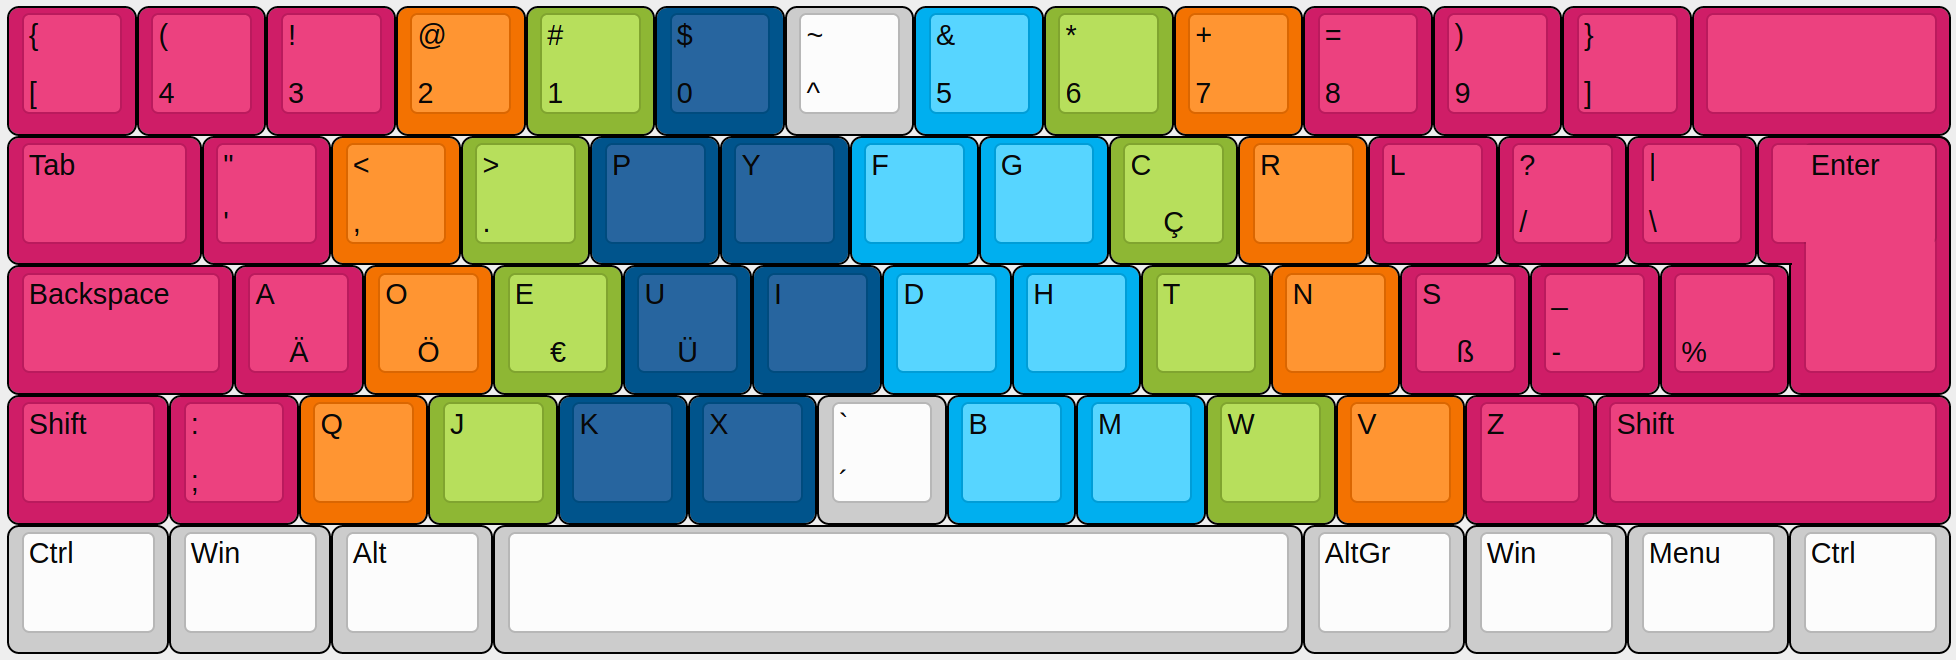
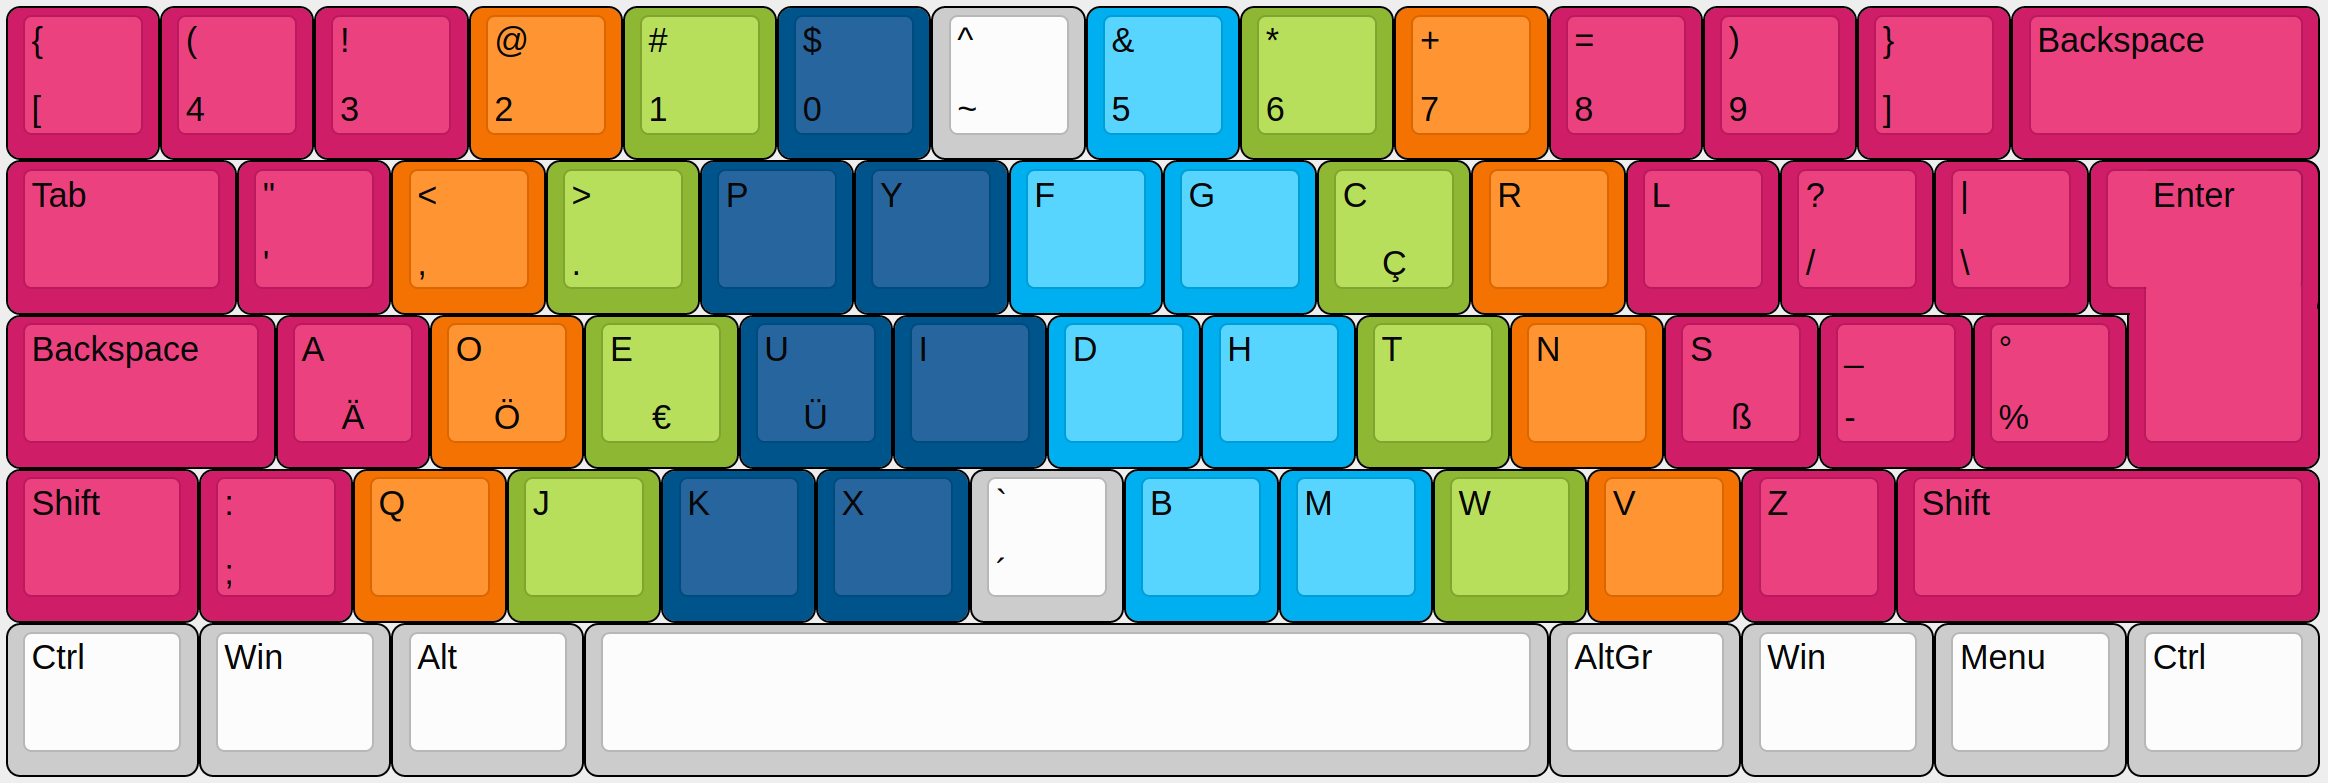
Use xkb instead of xmodmap and update readme

diff --git a/README.md b/README.md
@@ -1,6 +1,64 @@
+
 # Dvorax
-Somewhat symmetrical keyboard layout based on Dvorak, with German character support
+
+Somewhat symmetrical ISO 105 keyboard layout based on Dvorak, with German and French character support
 
 ![Layout](https://github.com/xdlg/Dvorax/blob/master/layout.png)
 
-[Keyboard Layout Editor](http://www.keyboard-layout-editor.com/##@@_c=%23cf1d67%3B&=%7B%0A%5B&=(%0A4&=!%0A3&_c=%23f37201%3B&=%2F@%0A2&_c=%238eb734%3B&=%23%0A1&_c=%2300548c%3B&=$%0A0&_c=%23cccccc%3B&=~%0A%5E&_c=%2300afef%3B&=%2F&%0A5&_c=%238eb734%3B&=*%0A6&_c=%23f37201%3B&=+%0A7&_c=%23cf1d67%3B&=%2F=%0A8&=)%0A9&=%7D%0A%5D&_a:7&w:2%3B&=%3B&@_a:4&w:1.5%3B&=Tab&=%22%0A'&_c=%23f37201%3B&=%3C%0A,&_c=%238eb734%3B&=%3E%0A.&_c=%2300548c%3B&=P&=Y&_c=%2300afef%3B&=F&=G&_c=%238eb734%3B&=C%0A%0A%0A%0A%0A%0A%0A%0A%0A%0A%C3%87&_c=%23f37201%3B&=R&_c=%23cf1d67%3B&=L&=%3F%0A%2F%2F&=%7C%0A%5C&_x:0.25&w:1.25&h:2&w2:1.5&h2:1&x2:-0.25%3B&=Enter%3B&@_w:1.75%3B&=Backspace&=A%0A%0A%0A%0A%0A%0A%0A%0A%0A%0A%C3%84&_c=%23f37201%3B&=O%0A%0A%0A%0A%0A%0A%0A%0A%0A%0A%C3%96&_c=%238eb734%3B&=E%0A%0A%0A%0A%0A%0A%0A%0A%0A%0A%E2%82%AC&_c=%2300548c%3B&=U%0A%0A%0A%0A%0A%0A%0A%0A%0A%0A%C3%9C&=I&_c=%2300afef%3B&=D&=H&_c=%238eb734%3B&=T&_c=%23f37201%3B&=N&_c=%23cf1d67%3B&=S%0A%0A%0A%0A%0A%0A%0A%0A%0A%0A%C3%9F&=%2F_%0A-&=%0A%25%3B&@_w:1.25%3B&=Shift&=%2F:%0A%2F%3B&_c=%23f37201%3B&=Q&_c=%238eb734%3B&=J&_c=%2300548c%3B&=K&=X&_c=%23cccccc%3B&=%60%0A%C2%B4&_c=%2300afef%3B&=B&=M&_c=%238eb734%3B&=W&_c=%23f37201%3B&=V&_c=%23cf1d67%3B&=Z&_w:2.75%3B&=Shift%3B&@_c=%23cccccc&w:1.25%3B&=Ctrl&_w:1.25%3B&=Win&_w:1.25%3B&=Alt&_a:7&w:6.25%3B&=&_a:4&w:1.25%3B&=AltGr&_w:1.25%3B&=Win&_w:1.25%3B&=Menu&_w:1.25%3B&=Ctrl)
+[Keyboard Layout Editor](http://www.keyboard-layout-editor.com/##@@_c=%23cf1d67%3B&=%7B%0A%5B&=(%0A4&=!%0A3&_c=%23f37201%3B&=%2F@%0A2&_c=%238eb734%3B&=%23%0A1&_c=%2300548c%3B&=$%0A0&_c=%23cccccc%3B&=%5E%0A~&_c=%2300afef%3B&=%2F&%0A5&_c=%238eb734%3B&=*%0A6&_c=%23f37201%3B&=+%0A7&_c=%23cf1d67%3B&=%2F=%0A8&=)%0A9&=%7D%0A%5D&_w:2%3B&=Backspace%3B&@_w:1.5%3B&=Tab&=%22%0A'&_c=%23f37201%3B&=%3C%0A,&_c=%238eb734%3B&=%3E%0A.&_c=%2300548c%3B&=P&=Y&_c=%2300afef%3B&=F&=G&_c=%238eb734%3B&=C%0A%0A%0A%0A%0A%0A%0A%0A%0A%0A%C3%87&_c=%23f37201%3B&=R&_c=%23cf1d67%3B&=L&=%3F%0A%2F%2F&=%7C%0A%5C&_x:0.25&w:1.25&h:2&w2:1.5&h2:1&x2:-0.25%3B&=Enter%3B&@_w:1.75%3B&=Backspace&=A%0A%0A%0A%0A%0A%0A%0A%0A%0A%0A%C3%84&_c=%23f37201%3B&=O%0A%0A%0A%0A%0A%0A%0A%0A%0A%0A%C3%96&_c=%238eb734%3B&=E%0A%0A%0A%0A%0A%0A%0A%0A%0A%0A%E2%82%AC&_c=%2300548c%3B&=U%0A%0A%0A%0A%0A%0A%0A%0A%0A%0A%C3%9C&=I&_c=%2300afef%3B&=D&=H&_c=%238eb734%3B&=T&_c=%23f37201%3B&=N&_c=%23cf1d67%3B&=S%0A%0A%0A%0A%0A%0A%0A%0A%0A%0A%C3%9F&=%2F_%0A-&=%C2%B0%0A%25%3B&@_w:1.25%3B&=Shift&=%2F:%0A%2F%3B&_c=%23f37201%3B&=Q&_c=%238eb734%3B&=J&_c=%2300548c%3B&=K&=X&_c=%23cccccc%3B&=%60%0A%C2%B4&_c=%2300afef%3B&=B&=M&_c=%238eb734%3B&=W&_c=%23f37201%3B&=V&_c=%23cf1d67%3B&=Z&_w:2.75%3B&=Shift%3B&@_c=%23cccccc&w:1.25%3B&=Ctrl&_w:1.25%3B&=Win&_w:1.25%3B&=Alt&_a:7&w:6.25%3B&=&_a:4&w:1.25%3B&=AltGr&_w:1.25%3B&=Win&_w:1.25%3B&=Menu&_w:1.25%3B&=Ctrl)
+
+## Background
+
+Strict touch typing on a standard keyboard (i.e. row-staggered) makes absolutely no sense for the left hand. Look at the standard areas of responsibility for each finger:
+
+![Touch typing](https://upload.wikimedia.org/wikipedia/commons/thumb/2/29/Touch_typing.svg/1200px-Touch_typing.svg.png)The right hand is fine, as the top-left to bottom-right key alignment (for example 7, U, J, M) matches the natural movement of the fingers. The hand can be kept in alignment with the forearm, and the wrist at a neutral angle.
+
+The left hand is *not* fine, as the key alignment runs counter to the finger movement. You either have to bend your wrist inward or make some finger contortions, especially for the bottom row. For example, reaching down from A to Z with your pinky while keeping a neutral wrist angle is an extremely awkward movement. I believe that most people choose to bend their wrists inwards, which sounds and feels like a sure way to get RSI.
+
+The culprit is row staggering, inherited from typewriters. Keyboards like the [X-Bows](https://x-bows.com/) or the [Ergodox](https://ergodox-ez.com/) address that problem, but they're still expensive, and I like the frugality of a software solution.
+
+## Characteristics
+
+Dvorax is a somewhat symmetrical keyboard layout based on Dvorak. It takes advantage of the ISO 105 keyboard to shift the left half of the bottom row one key to the left. The home row and the top row stay the same. Reaching the top row with neutral wrists isn't a problem for me, as the staggering is much less pronounced than with the bottom row. We won't achieve perfect symmetry on a  standard keyboard anyway.
+
+![Layout](https://github.com/xdlg/Dvorax/blob/master/layout.png)
+
+Additional characteristics:
+- The layout should be usable on Linux and Windows. So features that could be programmed with xkb or xmodmap but not Microsoft Keyboard Layout Creator are out.
+- I mostly write in English, often in German and occasionally in French, so I want good support for German characters and decent support for French characters.
+- Leaving the 0 and 1 on the weakest fingers makes no sense, as they are by far the most important digits. Also, having the 0 completely to the right always seemed weird to me. In Dvorax, the 0 and 1 are on strong fingers, and the digit progression is mirrored.
+- Parentheses, brackets, and curly brackets are symmetrical.
+- Moving half the bottom row to the left and reorganizing the digits row leaves an empty key on each. These keys are the least reachable for either hand, so they be assigned to characters used only occasionally.
+- The other special characters are mostly taken from Dvorak.
+- I don't need Caps Lock, so it is now an additional Backspace.
+
+# Linux
+
+I use Linux Mint so installation steps may vary on other distributions. I chose xkb rather than xmodmap because it creates a layout that is completely integrated into the OS's preferences, just like any other language layout.
+
+ 1. Copy [dx](https://github.com/xdlg/Dvorax/blob/master/xkb/dx) into `/usr/share/X11/xkb/symbols`.
+ 2. Add `dx Dvorax` to the layout list in `/usr/share/X11/xkb/rules/evdev.lst`.
+ 3. Add the following layout to `/usr/share/X11/xkb/rules/evdev.xml`:
+```
+<layout>
+  <configItem>
+    <name>dx</name>
+    <shortDescription>dx</shortDescription>
+    <description>Dvorax</description>
+    <languageList>
+      <iso639Id>ger</iso639Id>
+    </languageList>
+  </configItem>
+  </layout>
+```
+4. Log out and log back in.
+
+Note that it's the `evdev` files that are modified, not the `base` or the `xfree86`. It's probably system-dependent, but at least on Linux Mint 19.3 Cinnamon only changing the `evdev` files worked out as desired.
+
+After that, the layout should be available in the system preferences like any other language.
+
+# Resources
+
+ - [Xah Lee](http://www.xahlee.info/kbd/keyboard_blog.html) has a ton of information on keyboards
+ - [SymmeTri](https://github.com/WesleyBlancoYuan/SymmeTri-Keyboard-Layout) and [The Symmetric Typing Project](http://kennetchaz.github.io/symmetric-typing/) are other attempts at symmetrical layouts
+ - [The standard QWERTY finger placement is uncomfortable and terribly designed.](http://www.onehandkeyboard.org/standard-qwerty-finger-placement/)
